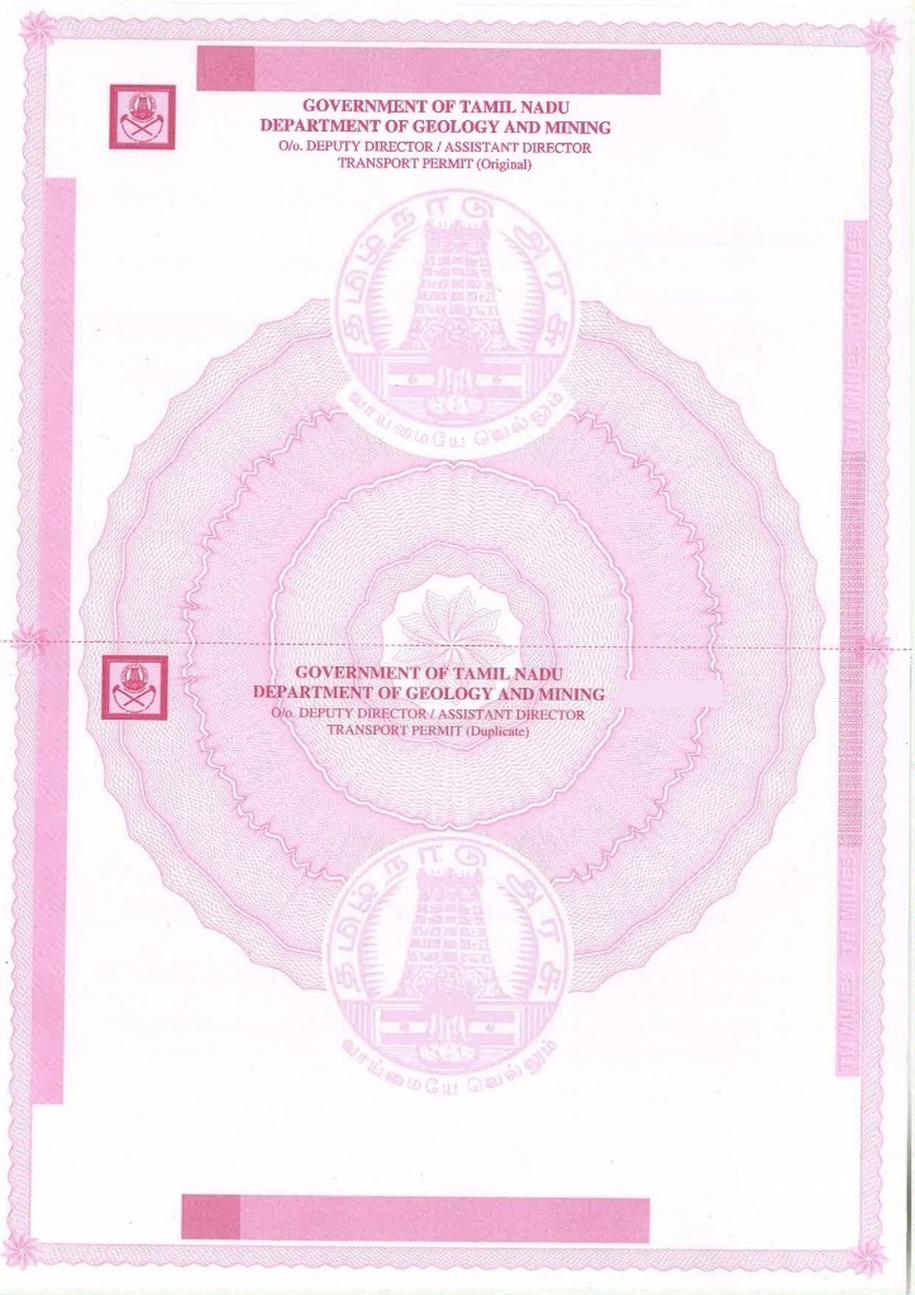
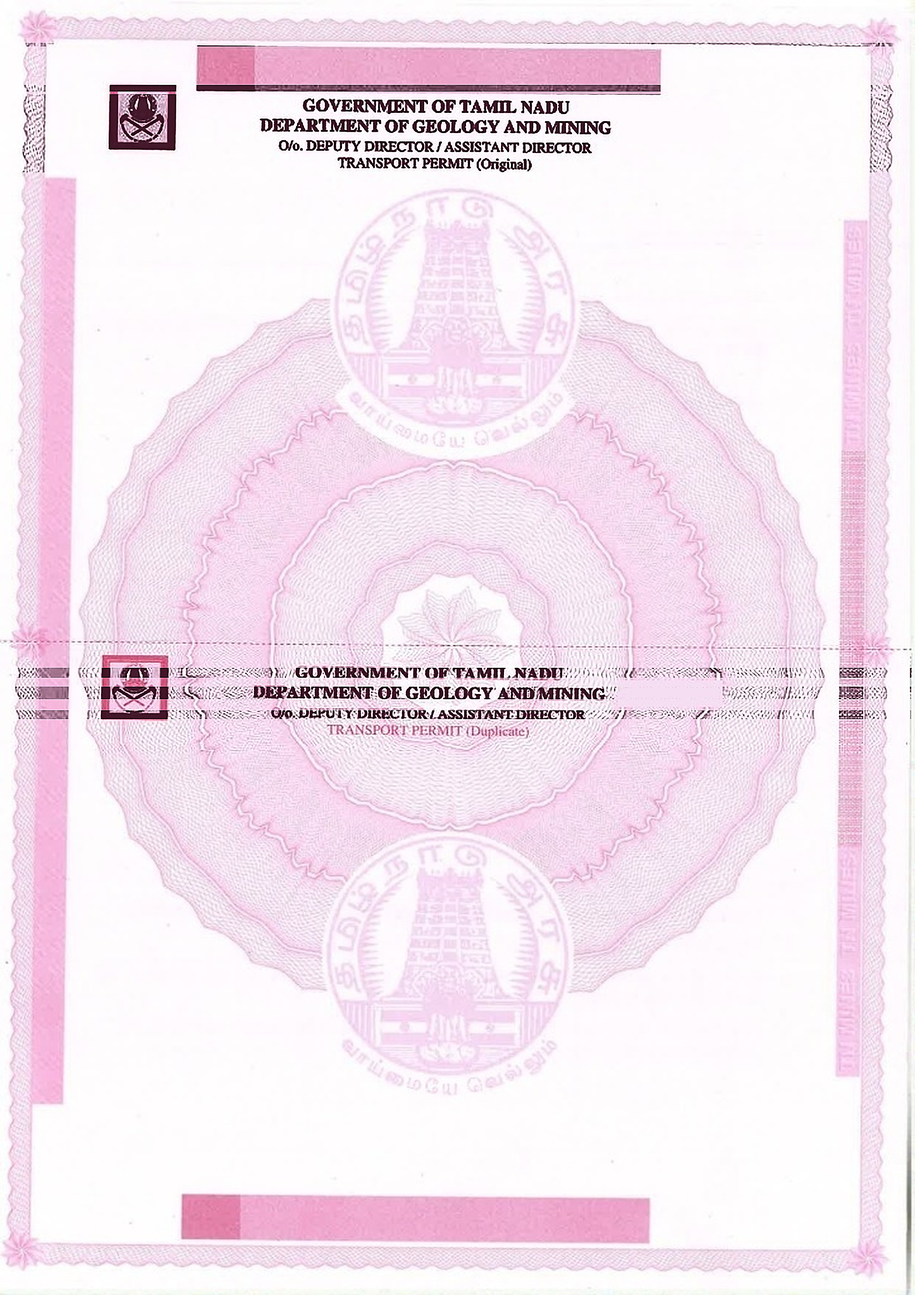
Sharpen the existing permit heading by darkening and unsharp-masking the title area.
Keep the original printed wording; only increase contrast of the heading on the background image.

diff --git a/index.html b/index.html
@@ -1328,7 +1328,7 @@ async function generateAll(){
       royaltyPage.className = 'permit-page';
       royaltyPage.id = `permit-page-${pageIndex}`;
       royaltyPage.setAttribute('data-permit-group', pageIndex);
-      royaltyPage.innerHTML = '<img class="page-bg" src="permit_bg.jpg?v=a4full" alt="" draggable="false">';
+      royaltyPage.innerHTML = '<img class="page-bg" src="permit_bg.jpg?v=hdr1" alt="" draggable="false">';
       container.appendChild(royaltyPage);
 
       const instrPage = document.createElement('div');
